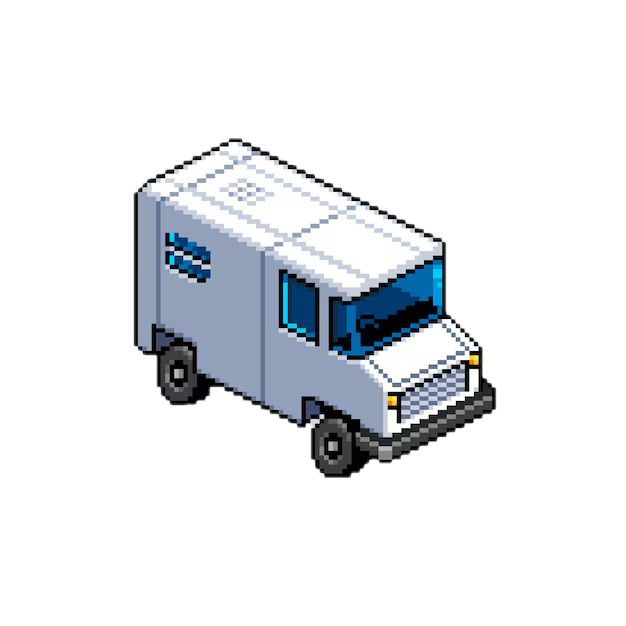
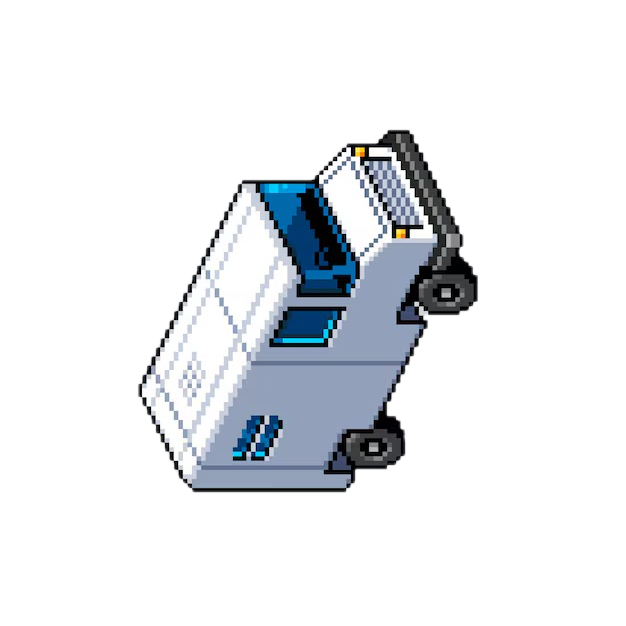
aggiunta animazione

Changed region(s): [[0.2125, 0.2125, 0.7891, 0.7891]]

diff --git a/path_finding_gui.py b/path_finding_gui.py
@@ -64,7 +64,7 @@ class Spot:
         self.end = False
 
         # Nuovo nuovo stato
-        self.rotation = 0
+        self.rotation = -90
 
         # Nuovo nuovo nuovo stato
         self.area = False
@@ -247,6 +247,7 @@ def draw_grid(win, rows, width):
 
 
 def draw(win, grid, rows, width):
+    win.fill(WHITE)
     win.blit(BACKGROUND_IMAGE, (0, 0))  # Disegna lo sfondo prima di tutto
 
     # Prima, disegna tutti gli spot normali (barriere, percorsi, nodi)
@@ -261,6 +262,11 @@ def draw(win, grid, rows, width):
                 spot.draw(win)
 
     # draw_grid(win, rows, width)
+    save_map_button.show()
+    manhattan.show()
+    chebyshev.show()
+    euclidean.show()
+    blind.show()
 
     pygame.display.update()  # Aggiorna la finestra solo alla fine
 
@@ -332,7 +338,6 @@ def animate_airplane(start, plan, grid, rows):
         if not grid[x][y].is_end():
             grid[x][y].reset()
 
-        # Muove l'aereo nella direzione corretta
         if move == 'N':
             y += 1
             if next_move == 'W':
@@ -562,7 +567,7 @@ clock = pygame.time.Clock()
 
 
 @click.command()
-@click.option('-w', '--width', default=WIDTH, help="Width of the Windows")
+@click.option('-w', '--width', default=WIDTH-200, help="Width of the Windows")
 @click.option('-r', '--rows', default=50, help="Number of rows/columns in the map")
 @click.option('-s', '--search_algorithm', default="ASTAR", help="Search algorithm to be used")
 @click.option('-f', '--filename', default=None, help="Initialize map with data from file")
@@ -629,6 +634,7 @@ def main(width, rows, search_algorithm, filename=None):
                         end = None
                     elif spot.is_barrier() or spot.is_area():
                         wall.remove((row, col))
+
             if event.type == pygame.KEYDOWN:
                 if event.key == pygame.K_SPACE and start and end:
                     world = World(rows-1, rows-1, wall)
